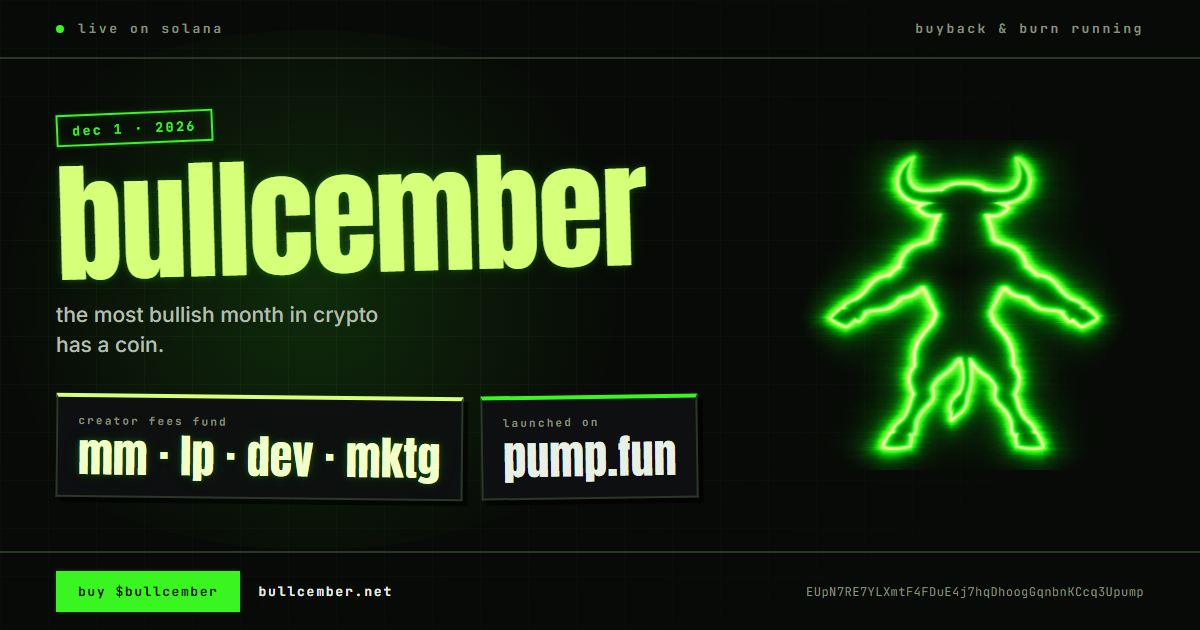
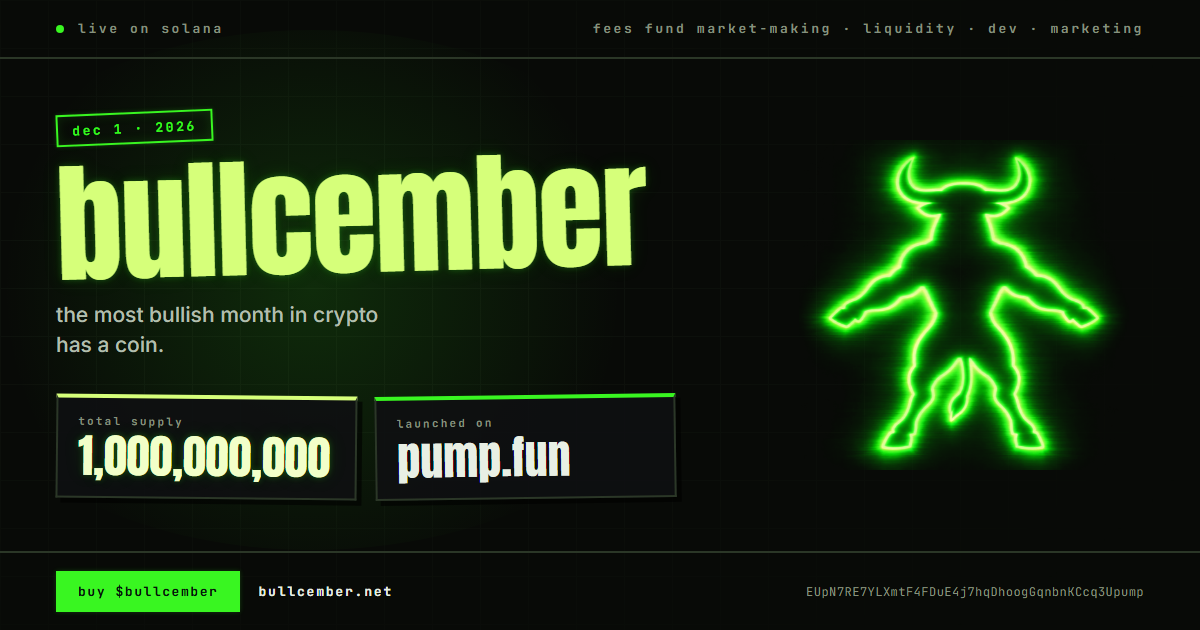
Swap 'buyback & burn' for the fee uses on the share card

diff --git a/index.html b/index.html
@@ -18,7 +18,7 @@
   <meta property="og:url" content="https://bullcember.net/" />
   <meta property="og:title" content="$BULLCEMBER: The Bullish December, Now on Solana" />
   <meta property="og:description" content="$BULLCEMBER is live on Solana. The most bullish month in crypto has a coin. Zero taxes, no VCs, pure community. December 1, 2026." />
-  <meta property="og:image" content="https://bullcember.net/og-image.png?v=b8ec855e" />
+  <meta property="og:image" content="https://bullcember.net/og-image.png?v=000ac53f" />
   <meta property="og:image:width" content="1200" />
   <meta property="og:image:height" content="630" />
   <meta property="og:image:type" content="image/png" />
@@ -29,7 +29,7 @@
   <meta name="twitter:creator" content="@bullcembersol" />
   <meta name="twitter:title" content="$BULLCEMBER: The Bullish December, Now on Solana" />
   <meta name="twitter:description" content="$BULLCEMBER is live on Solana. The most bullish month in crypto has a coin. Zero taxes, no VCs, pure community. December 1, 2026." />
-  <meta name="twitter:image" content="https://bullcember.net/og-image.png?v=b8ec855e" />
+  <meta name="twitter:image" content="https://bullcember.net/og-image.png?v=000ac53f" />
   <meta name="twitter:image:alt" content="$BULLCEMBER neon bull logo, creator fees fund market-making, liquidity, development and marketing" />
   <link rel="stylesheet" href="style.css" />
   <link rel="preconnect" href="https://fonts.googleapis.com" />
